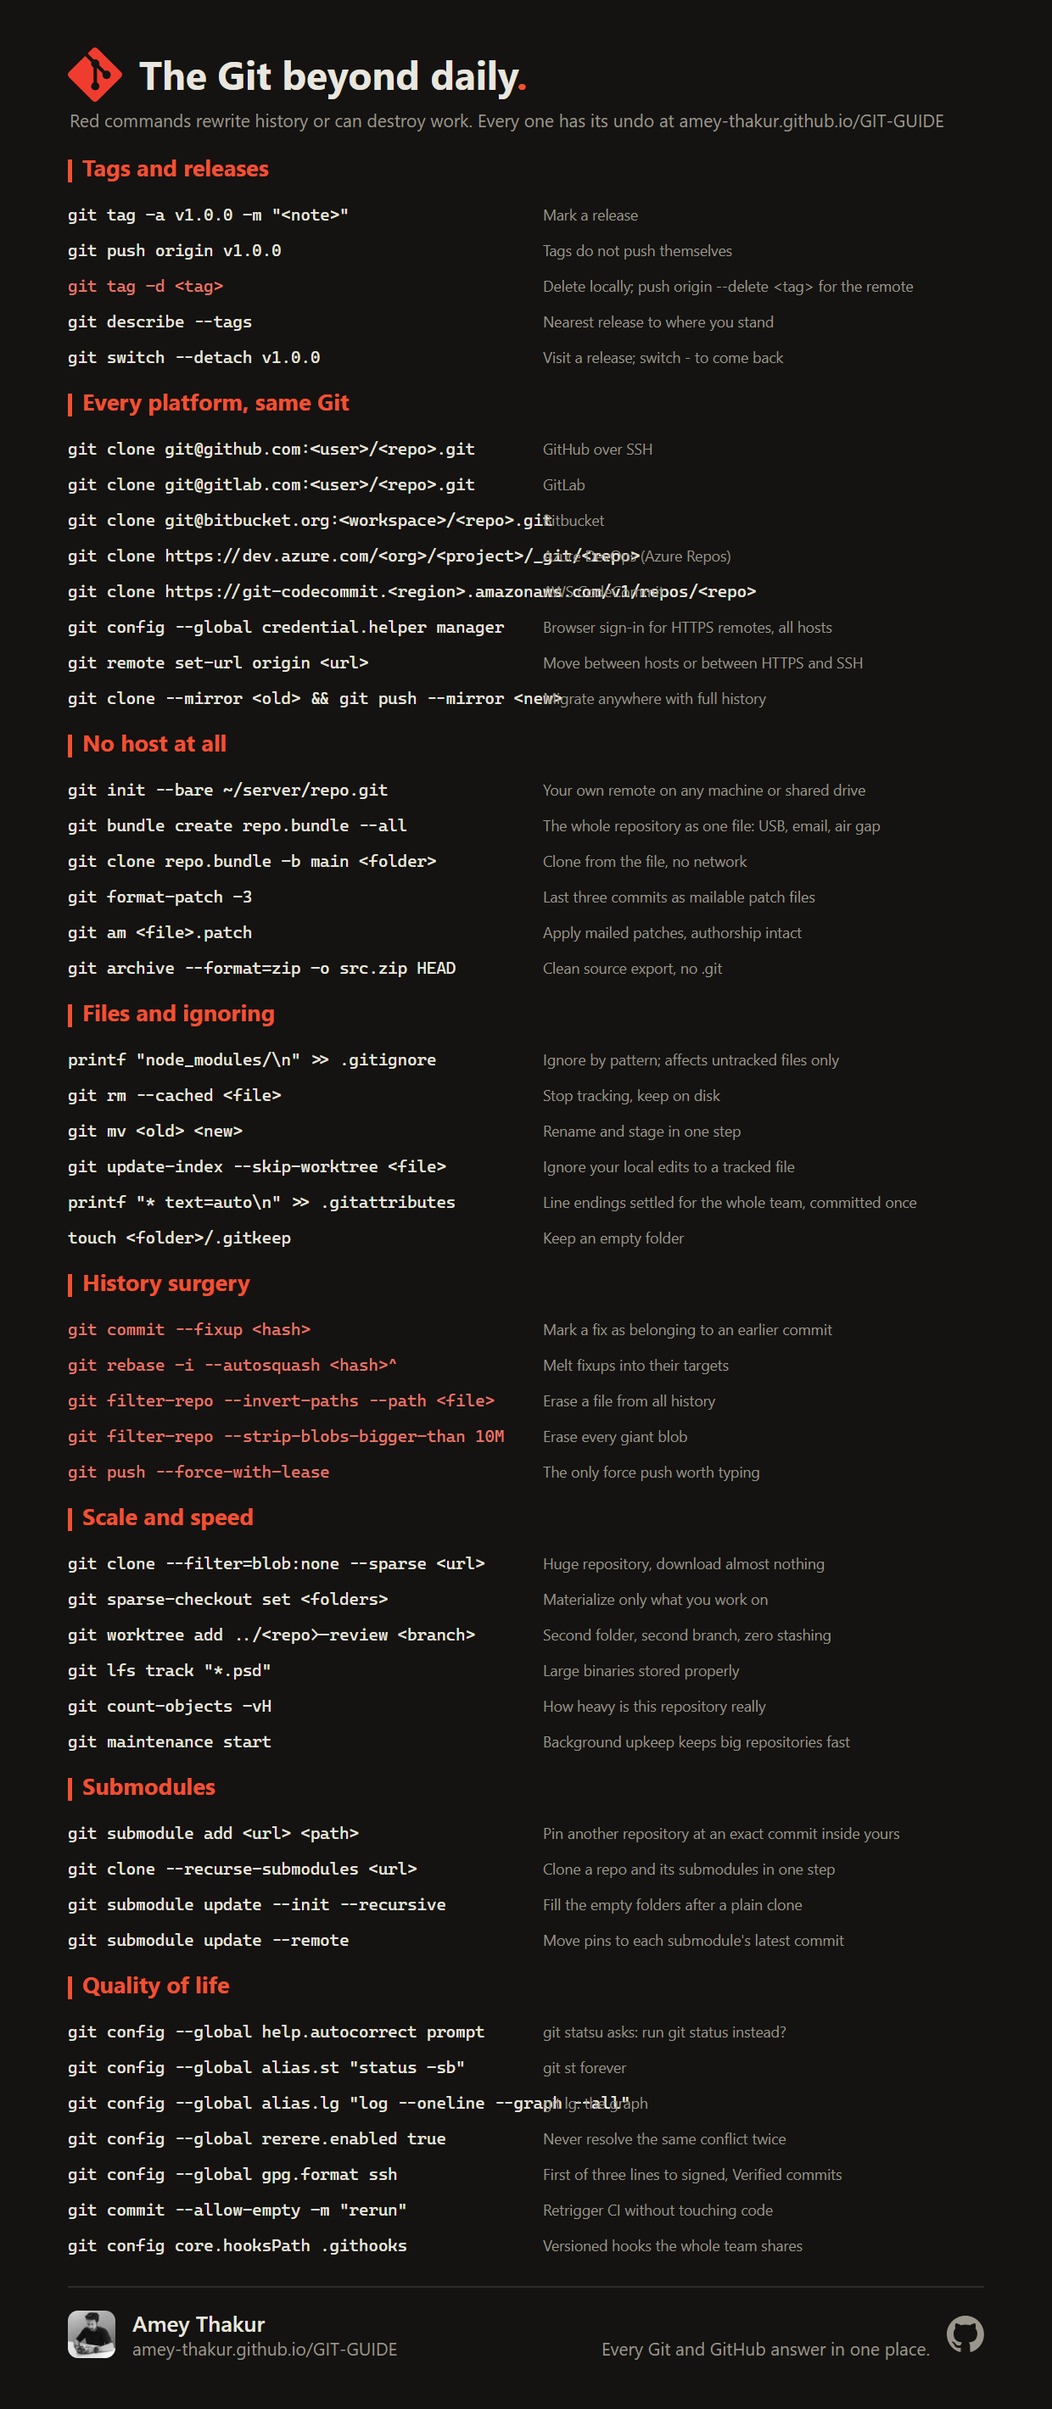
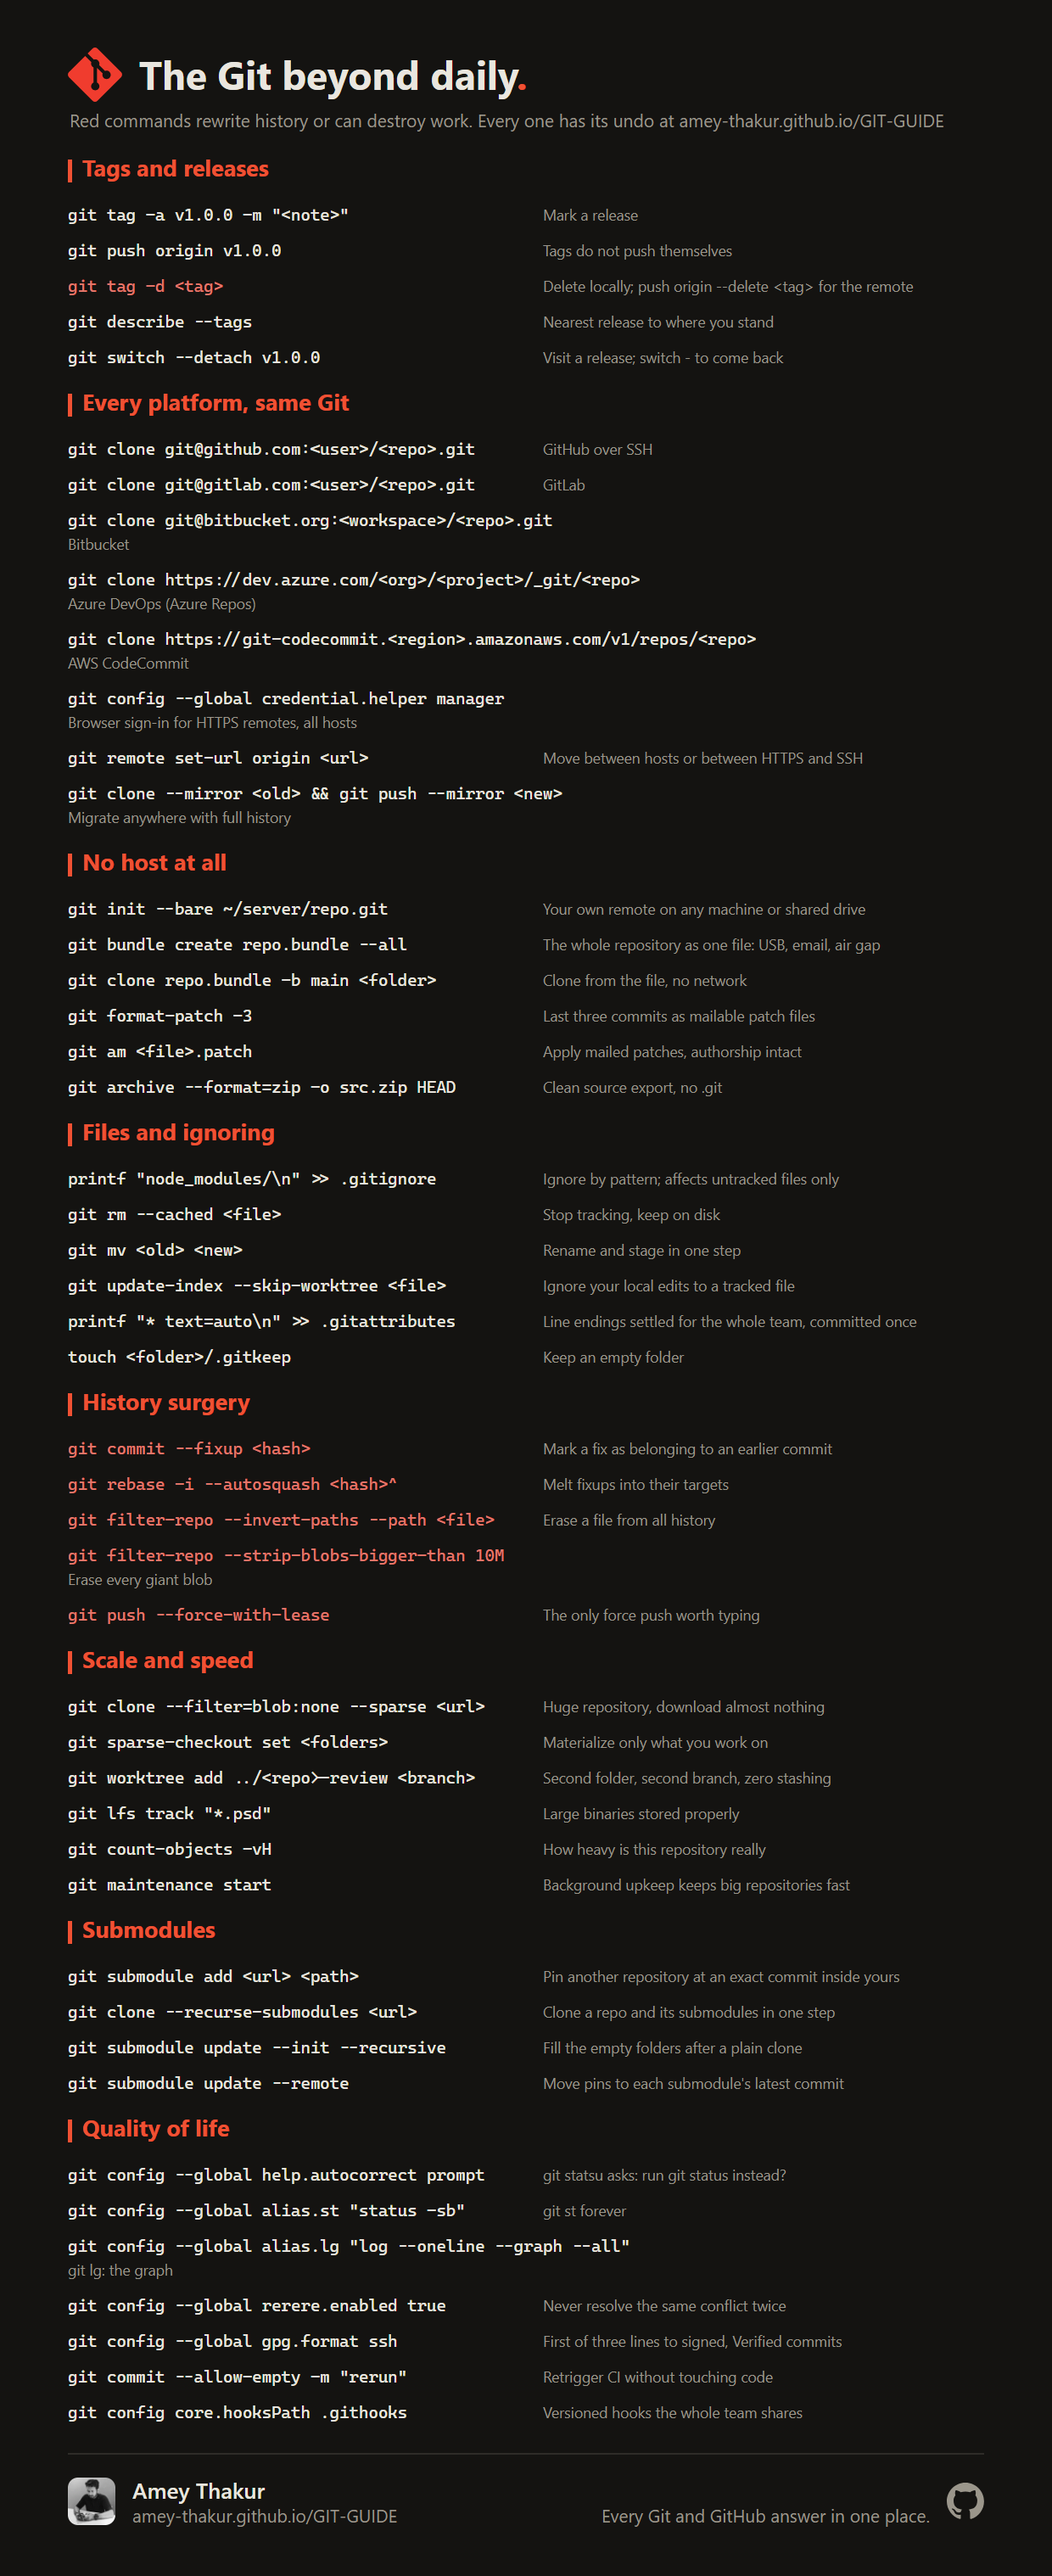
Git

diff --git a/.github/scripts/build_booklet.py b/.github/scripts/build_booklet.py
@@ -301,7 +301,7 @@ h2 {{ font-size: 17pt; margin-bottom: 4mm; border-left: 1.4mm solid {ACCENT}; pa
 .note {{ color: {MUTED}; font-size: 10pt; margin-bottom: 4mm; }}
 .cols {{ display: grid; grid-template-columns: 1fr 1fr; gap: 0 14mm; }}
 .list div {{ border-bottom: 0.3mm solid {LINE}; padding: 2.1mm 0; }}
-.list code {{ font-family: Consolas, monospace; font-size: 9.5pt; display: block; }}
+.list code {{ font-family: Consolas, monospace; font-size: 9.5pt; display: block; overflow-wrap: anywhere; }}
 .list code.danger {{ color: {DANGER}; }}
 .list span {{ font-size: 8.5pt; color: {MUTED}; display: block; margin-top: 0.8mm; }}
 .steps {{ display: grid; gap: 5mm; max-width: 230mm; }}
@@ -313,7 +313,7 @@ h2 {{ font-size: 17pt; margin-bottom: 4mm; border-left: 1.4mm solid {ACCENT}; pa
 .rules {{ font-size: 10.5pt; color: {MUTED}; line-height: 1.7; margin-top: 6mm; max-width: 230mm; }}
 .rules b {{ color: {INK}; }}
 .errs div {{ border-bottom: 0.3mm solid {LINE}; padding: 1.9mm 0; }}
-.errs code {{ font-family: Consolas, monospace; font-size: 9pt; color: {DANGER}; }}
+.errs code {{ font-family: Consolas, monospace; font-size: 9pt; color: {DANGER}; overflow-wrap: anywhere; }}
 .errs p {{ font-size: 8.5pt; color: {MUTED}; margin-top: 0.5mm; }}
 .list.inline code {{ display: inline; }}
 .list.inline span {{ display: inline; margin-left: 2.5mm; }}

diff --git a/.github/scripts/build_images.py b/.github/scripts/build_images.py
@@ -156,11 +156,18 @@ def sheet_card(sheet, wanted, title):
         y += 22
         for item in sec["items"]:
             color = DANGER if item.get("danger") else INK
-            body += (
-                f'<text x="80" y="{y + 30}" font-size="19.5" fill="{color}" font-family="{MONO}">{escape(item["c"])}</text>'
-                f'<text x="640" y="{y + 30}" font-size="17.5" fill="{MUTED}">{escape(item["d"])}</text>'
-            )
-            y += 42
+            if len(item["c"]) > 44:
+                body += (
+                    f'<text x="80" y="{y + 30}" font-size="19.5" fill="{color}" font-family="{MONO}">{escape(item["c"])}</text>'
+                    f'<text x="80" y="{y + 58}" font-size="17.5" fill="{MUTED}">{escape(item["d"])}</text>'
+                )
+                y += 70
+            else:
+                body += (
+                    f'<text x="80" y="{y + 30}" font-size="19.5" fill="{color}" font-family="{MONO}">{escape(item["c"])}</text>'
+                    f'<text x="640" y="{y + 30}" font-size="17.5" fill="{MUTED}">{escape(item["d"])}</text>'
+                )
+                y += 42
         y += 44
     height = y + 130
     return f'''<svg xmlns="http://www.w3.org/2000/svg" width="1240" height="{height}" viewBox="0 0 1240 {height}" font-family="{FONT}">
